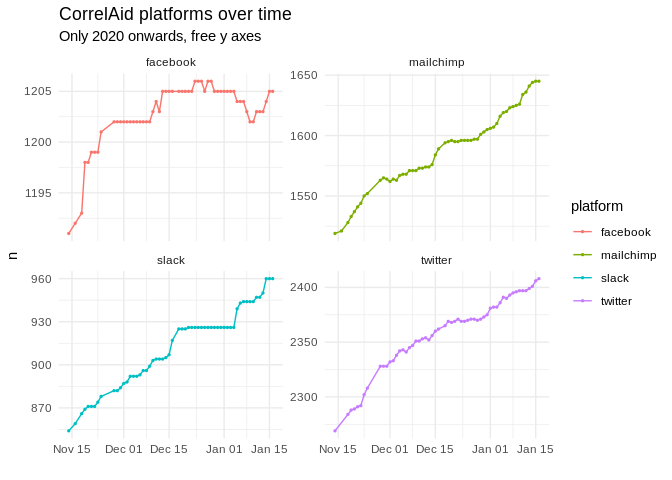
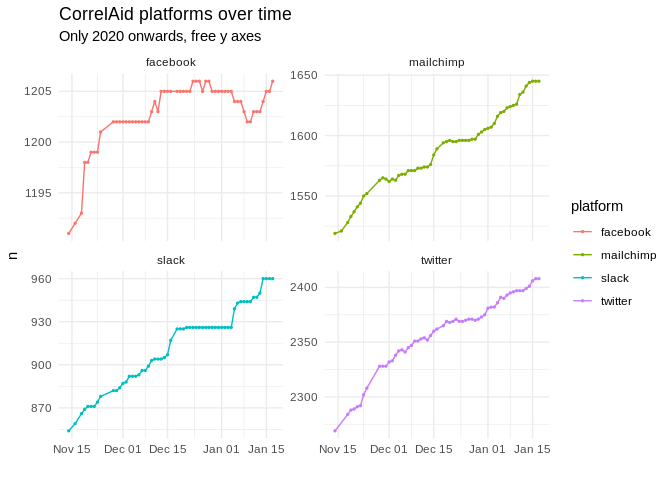
🤖 CRON - update daily data

diff --git a/README.md b/README.md
@@ -25,7 +25,7 @@ count and general network data on a daily basis using
 
 ### Plots
 
-*last updated*: 2021-01-16
+*last updated*: 2021-01-17
 23:50:13
 
 ![](README_files/figure-gfm/plot-alltime-1.png)<!-- -->
